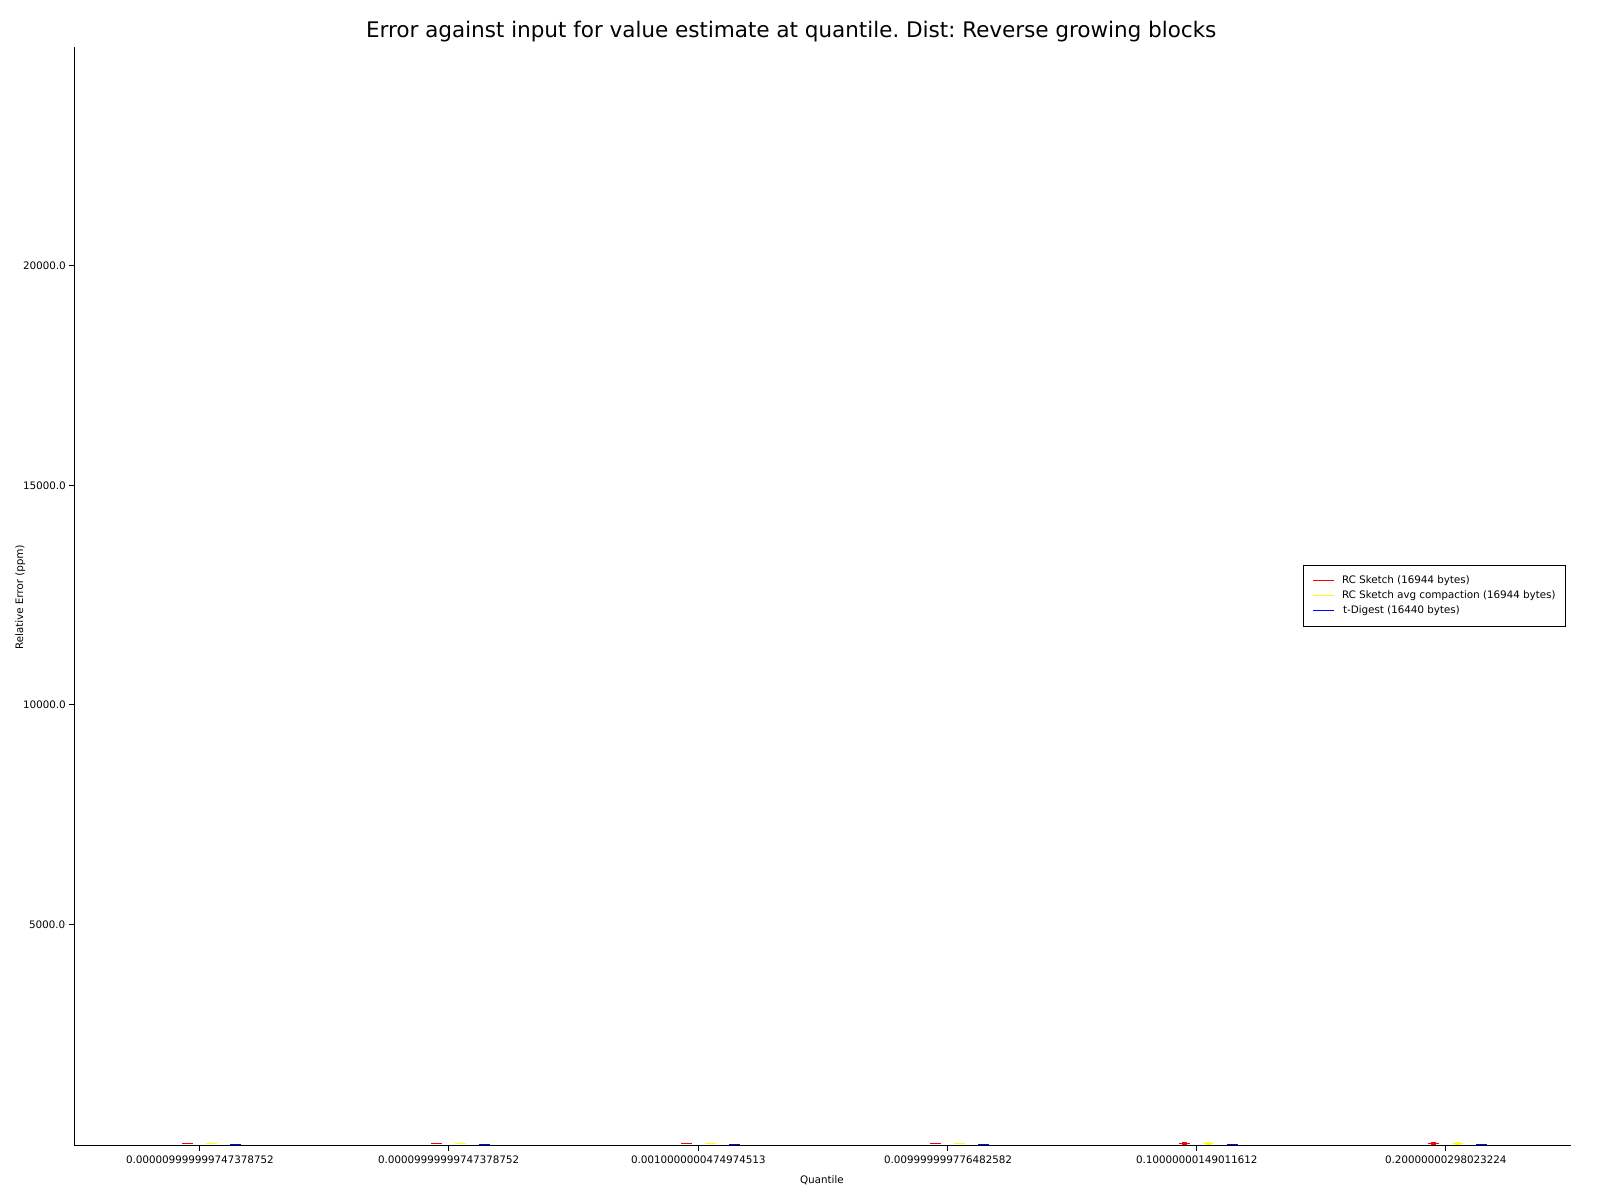
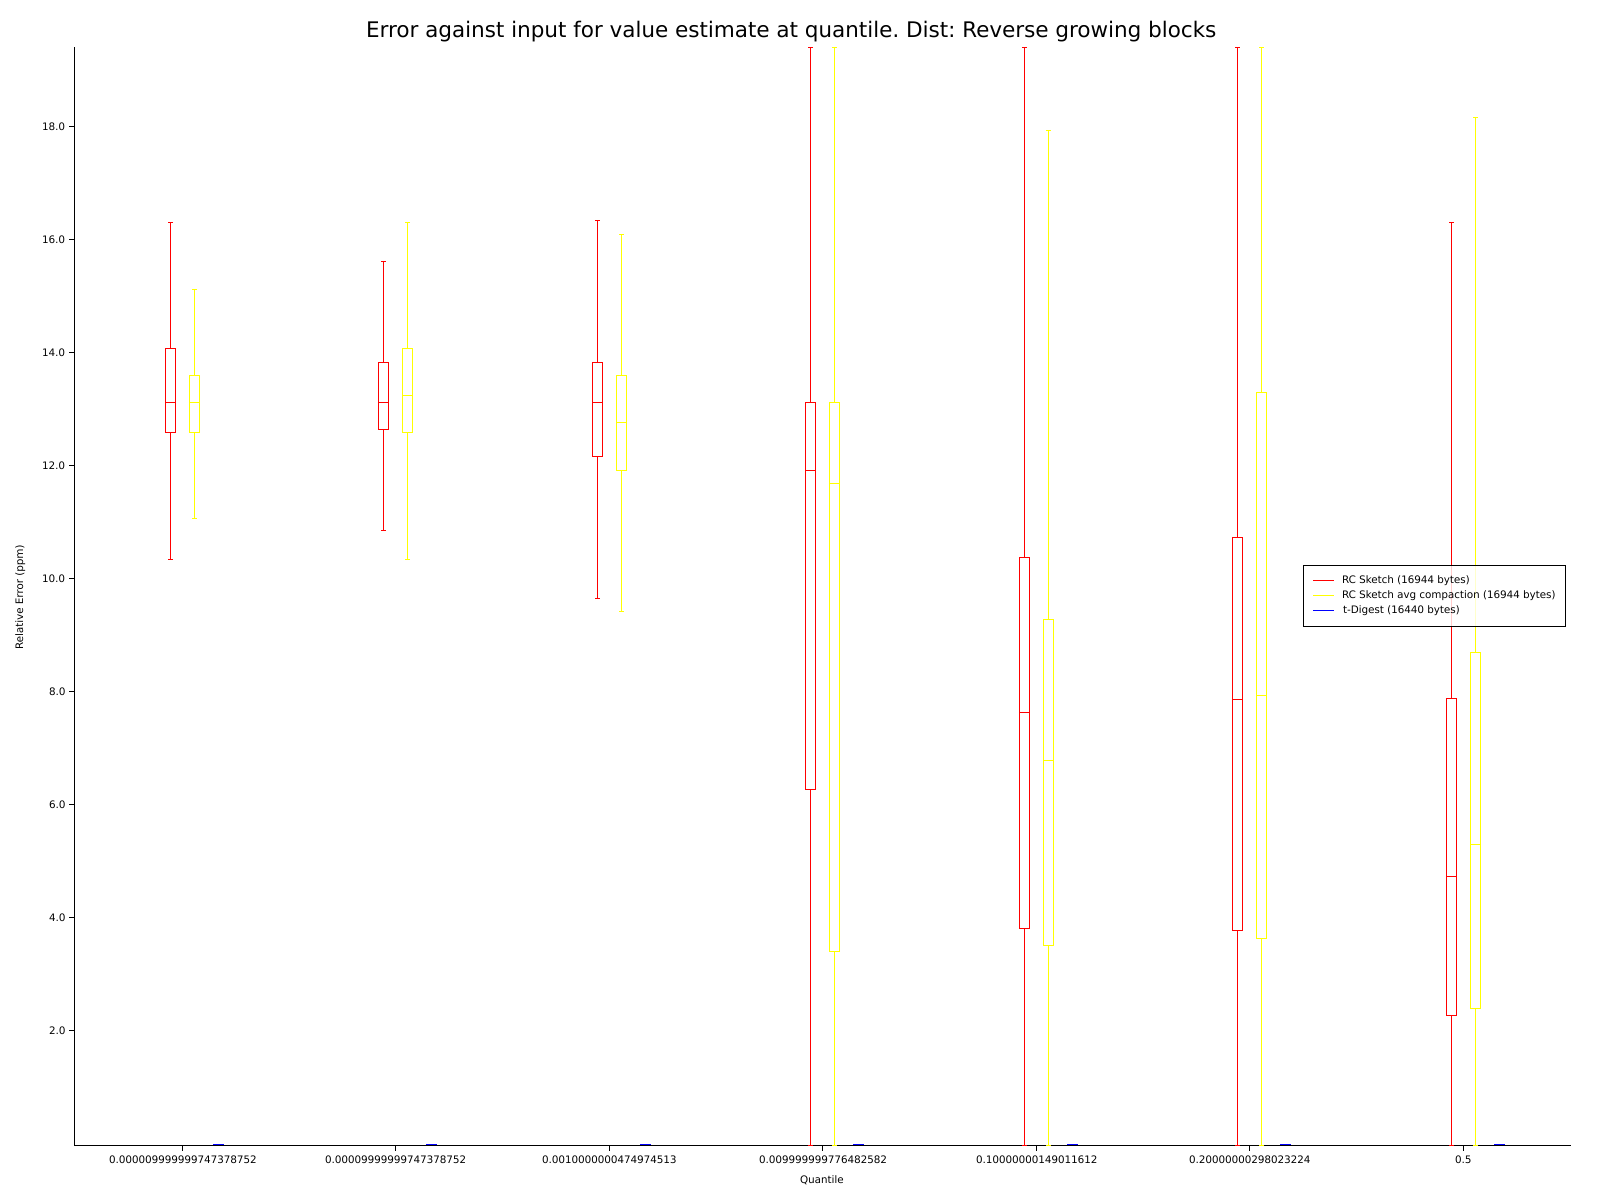
Adjust height of graphs

diff --git a/examples/accuracy.rs b/examples/accuracy.rs
@@ -12,6 +12,8 @@ use plotters::prelude::*;
 use std::error::Error;
 use std::path::Path;
 
+const T_DIGEST_CHUNK_SIZE: usize = 2_000;
+
 pub struct Line<'a, T>
 where
     T: Float,
@@ -81,7 +83,16 @@ where
         .map(|s| {
             s.datapoints
                 .iter()
-                .map(|dp| dp.1.iter().map(|x| *x as f32).collect::<Vec<f32>>())
+                .map(|dp| {
+                    let quartiles = Quartiles::new(&dp.1);
+                    let outlier_dist = 1.5 * quartiles.values()[3] - quartiles.values()[1];
+                    let upper_outlier_boundary = quartiles.values()[3] + outlier_dist;
+                    let lower_outlier_boundary = quartiles.values()[1] - outlier_dist;
+                    dp.1.iter()
+                        .map(|x| *x as f32)
+                        .filter(|x| *x <= upper_outlier_boundary && *x >= lower_outlier_boundary)
+                        .collect::<Vec<f32>>()
+                })
                 .flatten()
                 .collect::<Vec<f32>>()
         })
@@ -115,7 +126,7 @@ where
         .y_desc(y_label)
         .draw()?;
 
-    let mut offsets = (-12..).step_by(24);
+    let mut offsets = (-24..).step_by(24);
     series.iter().for_each(|s| {
         let current_offset = offsets.next().unwrap();
         chart
@@ -144,7 +155,7 @@ where
 
 pub fn plot_line_graph<T>(
     title: &str,
-    series: Vec<Line<T>>,
+    mut series: Vec<Line<T>>,
     output_path: &Path,
     x_label: &str,
     y_label: &str,
@@ -157,6 +168,12 @@ where
     let marker_size = 14;
 
     root.fill(&WHITE)?;
+
+    // Ensure the datapoints are in order to avoid the line doubling back.
+    series
+        .iter_mut()
+        .for_each(|s| s.datapoints.sort_by(|a, b| a.0.partial_cmp(&b.0).unwrap()));
+
     let min_x = series
         .iter()
         .map(|s| {
@@ -409,7 +426,9 @@ where
 
     let create_t_digest = |dataset: &[T], param: T| {
         let mut digest = TDigest::new(&scale_functions::k2, &scale_functions::inv_k2, param);
-        digest.add_buffer(dataset);
+        dataset
+            .chunks(T_DIGEST_CHUNK_SIZE)
+            .for_each(|chunk| digest.add_buffer(chunk));
         digest
     };
 
@@ -496,7 +515,9 @@ where
                 &scale_functions::inv_k2,
                 compression_param,
             );
-            digest.add_buffer(dataset);
+            dataset
+                .chunks(T_DIGEST_CHUNK_SIZE)
+                .for_each(|chunk| digest.add_buffer(chunk));
             digest
         }
     };
@@ -505,10 +526,9 @@ where
     let t_digest_param = T::from(6000.0).unwrap();
 
     let input_size = 100_000;
-    let quantiles = [1e-5, 1e-4, 1e-3, 1e-2, 1e-1, 0.2];
+    let quantiles = [1e-5, 1e-4, 1e-3, 1e-2, 1e-1, 0.2, 0.5];
     let rc_sketch_mem_size = {
         let digest = create_rcsketch(rcsketch_param)(&gen_uniform_tan_vec(input_size));
-        println!("{:?}", digest.buffers);
         digest.owned_size()
     };
     let t_digest_mem_size = {
@@ -626,12 +646,14 @@ where
                 &scale_functions::inv_k2,
                 compression_param,
             );
-            digest.add_buffer(dataset);
+            dataset
+                .chunks(T_DIGEST_CHUNK_SIZE)
+                .for_each(|chunk| digest.add_buffer(chunk));
             digest
         }
     };
 
-    let test_quantiles: Vec<T> = [1e-5, 5e-5, 1e-4, 5e-4, 1e-3, 5e-3, 1e-2, 5e-2, 1e-1]
+    let test_quantiles: Vec<T> = [1e-5, 5e-5, 1e-4, 5e-4, 1e-3, 5e-3, 1e-2, 5e-2, 1e-1, 0.2]
         .iter()
         .map(|quantile| T::from(*quantile).unwrap())
         .collect();
@@ -654,6 +676,7 @@ where
 
     for (dist_name, dataset_func) in &get_distributions() {
         let test_values = values_from_quantiles(&dataset_func(input_size), &test_quantiles);
+        println!("{:?}", test_values);
         let mut series = Vec::new();
 
         let mut s = Vec::new();
@@ -754,7 +777,9 @@ where
                 &scale_functions::inv_k2,
                 compression_param,
             );
-            digest.add_buffer(dataset);
+            dataset
+                .chunks(T_DIGEST_CHUNK_SIZE)
+                .for_each(|chunk| digest.add_buffer(chunk));
             digest
         }
     };
@@ -879,7 +904,9 @@ where
                 &scale_functions::inv_k2,
                 compression_param,
             );
-            digest.add_buffer(dataset);
+            dataset
+                .chunks(T_DIGEST_CHUNK_SIZE)
+                .for_each(|chunk| digest.add_buffer(chunk));
             digest
         }
     };
@@ -898,13 +925,30 @@ where
     let rcsketch_param = T::from(20.0).unwrap();
     let t_digest_param = T::from(10000.0).unwrap();
 
-//    let input_sizes = [10_000, 100_000, 1_000_000];
-let input_sizes = [
-10_000, 200_000, 40_000, 60_000, 80_000  
-,100_000, 200_000, 400_000, 600_000, 800_000  
-,1_000_000, 2_000_000, 4_000_000, 6_000_000, 8_000_000 
-,10_000_000, 20_000_000, 40_000_000, 60_000_000, 80_000_000, 100_000_000
-];
+    //    let input_sizes = [10_000, 100_000, 1_000_000];
+    let input_sizes = [
+        10_000,
+        200_000,
+        40_000,
+        60_000,
+        80_000,
+        100_000,
+        200_000,
+        400_000,
+        600_000,
+        800_000,
+        1_000_000,
+        2_000_000,
+        4_000_000,
+        6_000_000,
+        8_000_000,
+        10_000_000,
+        20_000_000,
+        40_000_000,
+        60_000_000,
+        80_000_000,
+        100_000_000,
+    ];
 
     // let rc_sketch_mem_size = |input_size| {
     //     let digest = create_rcsketch(rcsketch_param)(&gen_uniform_tan_vec(input_size));
@@ -988,7 +1032,9 @@ where
 
     let create_t_digest = |dataset: &[T], param: T| {
         let mut digest = TDigest::new(&scale_functions::k2, &scale_functions::inv_k2, param);
-        digest.add_buffer(dataset);
+        dataset
+            .chunks(T_DIGEST_CHUNK_SIZE)
+            .for_each(|chunk| digest.add_buffer(chunk));
         digest
     };
 
@@ -1079,7 +1125,9 @@ where
 
     let create_t_digest = |dataset: &[T], param: T| {
         let mut digest = TDigest::new(&scale_functions::k2, &scale_functions::inv_k2, param);
-        digest.add_buffer(dataset);
+        dataset
+            .chunks(T_DIGEST_CHUNK_SIZE)
+            .for_each(|chunk| digest.add_buffer(chunk));
         digest
     };
 
@@ -1175,7 +1223,7 @@ fn main() {
     // determine_required_parameter::<f32>();
     // determine_required_parameter::<f64>();
     plot_error_against_mem_usage::<f32>();
-    plot_error_against_input_size::<f32>();
+    // plot_error_against_input_size::<f32>();
     plot_memory_usage_against_compression_parameter::<f32>();
     plot_memory_usage_against_input_size::<f32>();
     println!("Complete");

diff --git a/src/util/mod.rs b/src/util/mod.rs
@@ -77,7 +77,7 @@ where
     for _ in 0..size {
         if uniform.sample(&mut rng) <= increment_prob {
             increment_prob = increment_prob * 0.98;
-            val = val - F::from(1.0).unwrap();
+            val = val + F::from(1.0).unwrap();
         }
         elements.push(val);
     }
